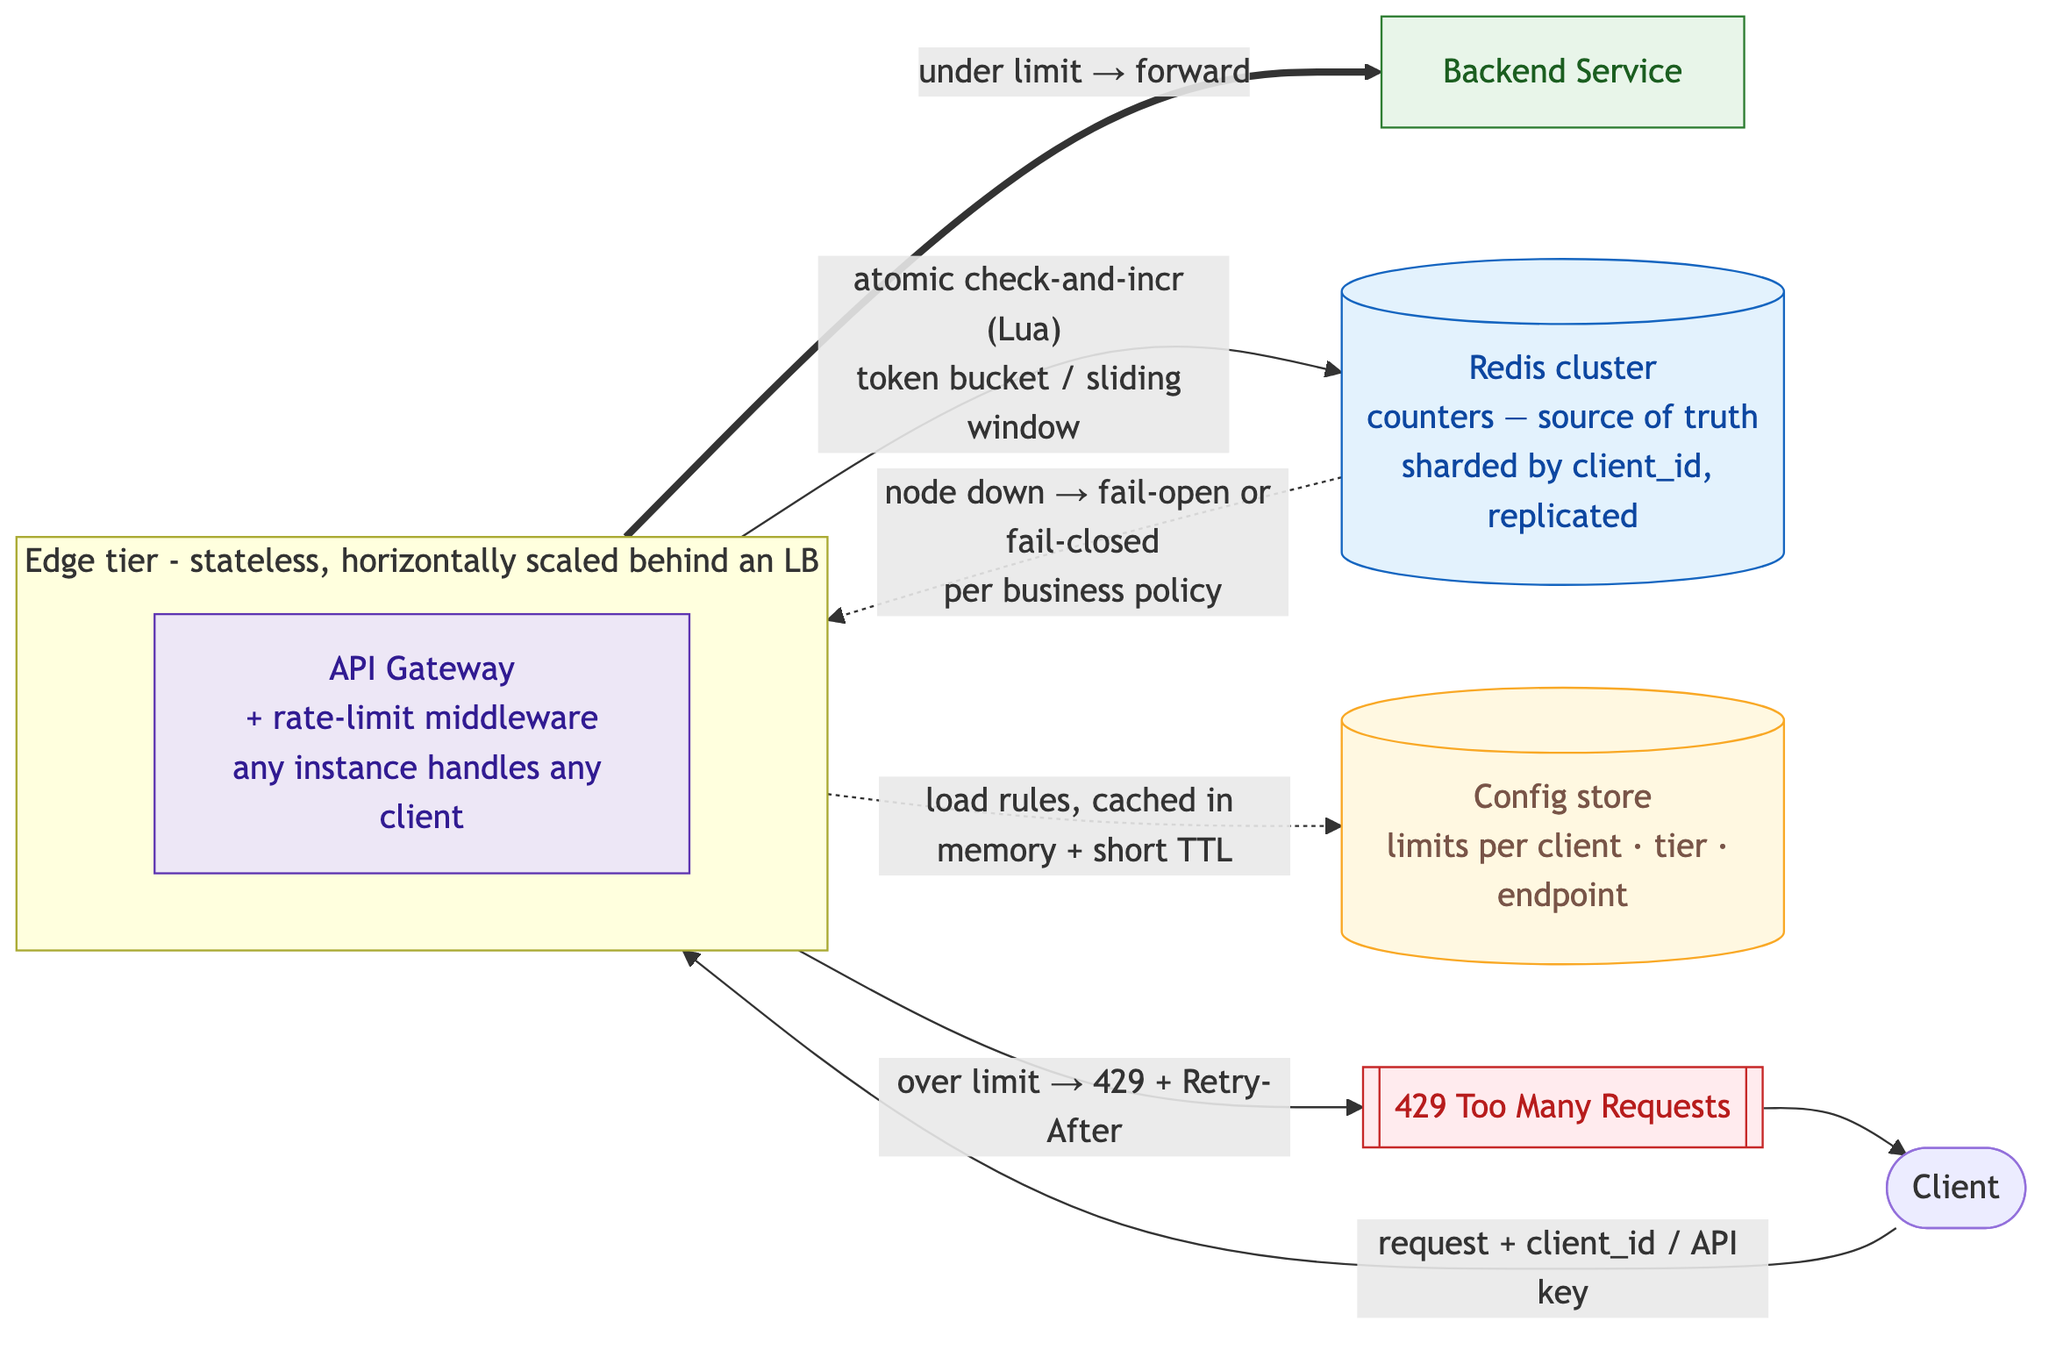
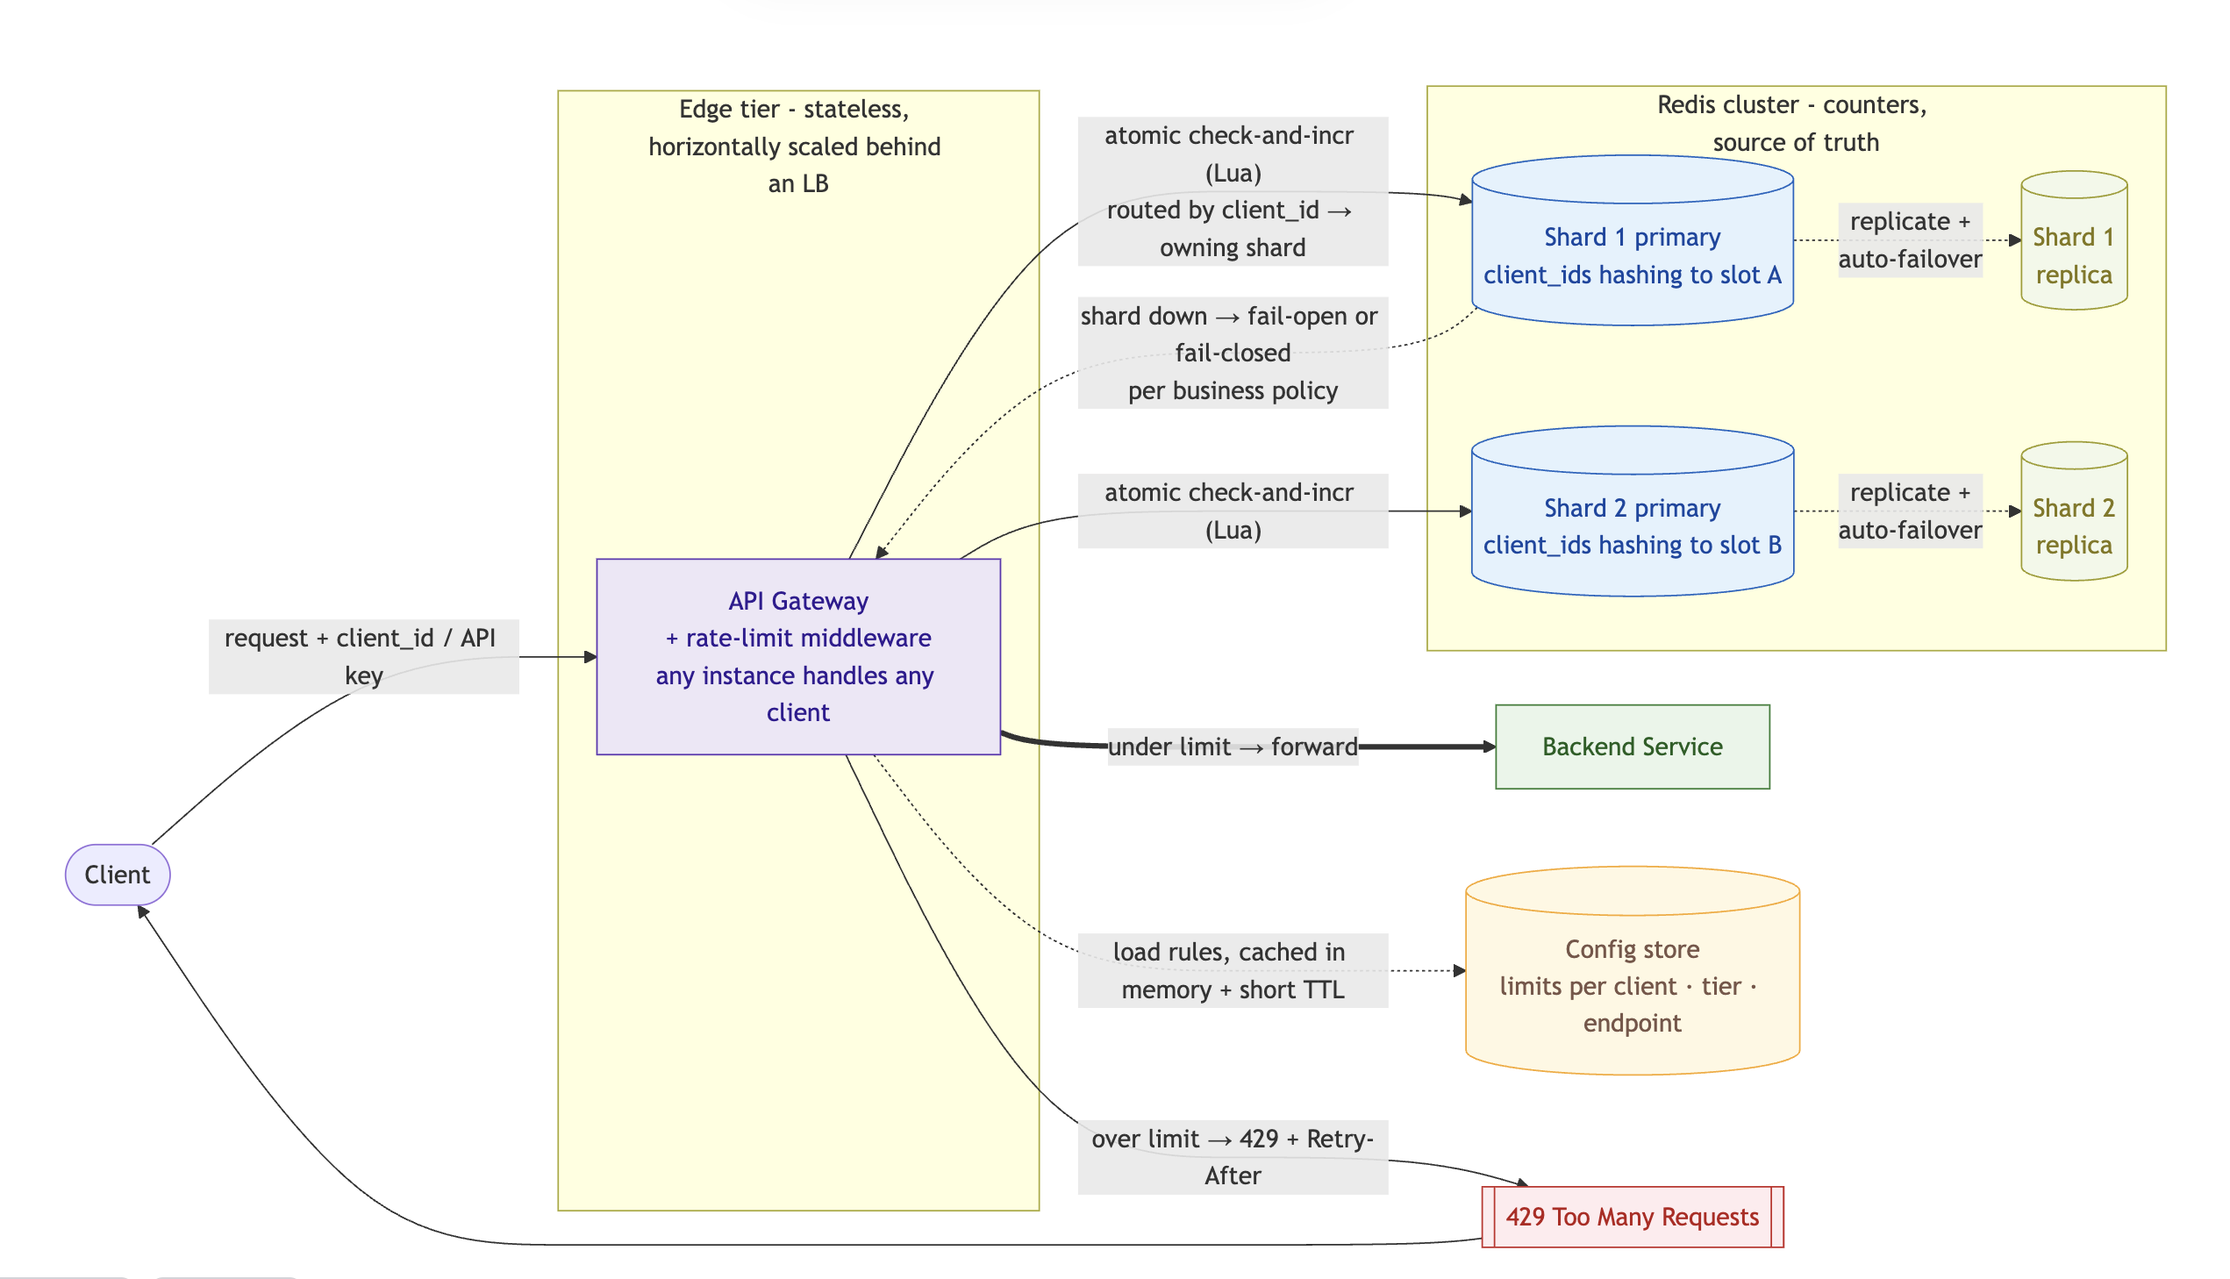
Added token bucket algorithm and how to use it.

diff --git a/practice/07-session/README.md b/practice/07-session/README.md
@@ -14,7 +14,7 @@
 
 > Design a **distributed rate limiting system** that can **protect APIs from abuse** while ensuring **fair usage across different clients** and **maintaining high performance**.
 
-Rate limiting looks like a CRUD-with-a-counter problem and is actually a **distributed-concurrency** problem wearing a small diagram. Every incoming request reads and mutates the *same* per-client counter, at peak QPS, across many stateless instances — so the entire design collapses to two questions: **(1) how do you increment that counter correctly when N instances race on it?** (answer: an *atomic* operation in the shared store, never read-modify-write in app code) and **(2) which counting algorithm do you use?** (fixed window is trivial but bursts 2× at boundaries; sliding-window-counter and token-bucket are what real limiters ship). Everything else — 429s, `Retry-After`, config, HA — is standard. The trap is designing the boxes and hand-waving the counter.
+Rate limiting looks like a CRUD-with-a-counter problem and is actually a **distributed-concurrency** problem wearing a small diagram. Every incoming request reads and mutates the *same* per-client counter, at peak QPS, across many stateless instances — so the entire design collapses to two questions: **(1) how do you increment that counter correctly when N instances race on it?** (answer: an *atomic* operation in the shared store, never read-modify-write in app code) and **(2) which counting algorithm do you use?** (fixed window is trivial but bursts 2× at boundaries; sliding-window-counter and token-bucket are what real limiters ship). Everything else — 429s, `Retry-After`, config, High Availability — is standard. The trap is designing the boxes and hand-waving the counter.
 
 ## Requirements & estimation
 
@@ -83,7 +83,7 @@ The process instincts were the strength this time — the ability to *evolve* a 
 | Clients / DAU | 10M total · 50% active | **5M DAU** | key space is millions, not billions |
 | Average QPS | 5M × 1000/day ÷ 10⁵ s | **~50k QPS** | in-memory store only; a DB can't sit on this path |
 | Peak QPS | 2× average | **~100k QPS** | atomic op must be **O(1)**, single round trip |
-| Counter memory | 5M clients × ~100 B | **~500 MB** | **fits one Redis node** — capacity is a non-issue; replicate for HA, shard for throughput |
+| Counter memory | 5M clients × ~100 B | **~500 MB** | **fits one Redis node** — capacity is a non-issue; replicate for High Availability, shard for throughput |
 | Edge instances | 100k ÷ ~1k QPS each, ×2 failover | **~200** | stateless tier behind an LB; scale horizontally |
 
 > The number that reframes the problem: **~500 MB of counters.** It proves the store is trivially small, there's **no durable-DB requirement on the hot path**, and the real constraints are **atomic-op latency** and **hot-key throughput** — not storage.
@@ -98,7 +98,7 @@ The process instincts were the strength this time — the ability to *evolve* a 
 
 The limiter lives **inside the edge tier** (API gateway / middleware), stateless and horizontally scaled. The only stateful component on the hot path is the **counter store** (Redis), hit with one **atomic** operation per request. A separate **config store** holds the rules, cached in memory.
 
-![Ideal distributed rate limiter as a Mermaid flowchart. A client sends each request carrying a client id or API key into a stateless edge tier of API gateway instances with rate-limit middleware behind a load balancer, where any instance can handle any client. On every request the gateway performs a single atomic check-and-increment against a Redis cluster that holds the per-client counters as the source of truth, sharded by client id and replicated, using a Lua script implementing token bucket or sliding window; it also loads rate-limit rules from a config store keyed by client, tier, and endpoint, cached in memory with a short TTL. When the client is under its limit the gateway forwards the request to the backend service; when over the limit it returns 429 Too Many Requests with a Retry-After header to the client. If a Redis node goes down the gateway falls open or fails closed according to business policy](./diagrams/ideal-design.png)
+![Ideal distributed rate limiter as a Mermaid flowchart. A client sends each request carrying a client id or API key into a stateless edge tier of API gateway instances with rate-limit middleware behind a load balancer, where any instance can handle any client. On every request the gateway performs a single atomic check-and-increment using a Lua script implementing token bucket or sliding window, routed by client id to the shard that owns that client. The counters live in a Redis cluster shown as the source of truth and split into two shards, shard 1 holding client ids that hash to slot A and shard 2 holding client ids that hash to slot B, giving horizontal throughput; each shard primary replicates to a replica with automatic failover for fault tolerance. The gateway also loads rate-limit rules from a config store keyed by client, tier, and endpoint, cached in memory with a short TTL. When the client is under its limit the gateway forwards the request to the backend service; when over the limit it returns 429 Too Many Requests with a Retry-After header to the client. If a shard goes down the gateway fails open or fails closed according to business policy](./diagrams/ideal-design.png)
 
 | Layer | Component | Store |
 |---|---|---|
@@ -111,36 +111,100 @@ The limiter lives **inside the edge tier** (API gateway / middleware), stateless
 
 ### 4. The algorithm — the one component worth real depth
 
-For a rate limiter, the counting algorithm *is* the domain. Know the four and their trade-offs cold:
+For a rate limiter, the counting algorithm *is* the domain. Know the five and their trade-offs cold — and, crucially, be able to **pick one and defend it**:
 
-| Algorithm | How it works | Trade-off |
-|---|---|---|
-| **Fixed window** | one counter per `(client, window)`; `INCR`, reset each window | Simplest, but **~2× burst at boundaries** (400 req across two adjacent 1-s windows) |
-| **Sliding-window log** | store a timestamp per request, count those inside the window | **Exact**, but O(requests) memory — too heavy at scale |
-| **Sliding-window counter** | weight prev window by overlap fraction: `prev × overlap% + curr` | **Approximate but smooth**, ~2 counters/client — the **sweet spot** |
-| **Token bucket** | tokens refill at a fixed rate; each request spends one; bucket caps burst | **Allows controlled bursts**, industry default (Stripe, AWS, Cloudflare) |
-| **Leaky bucket** | requests queue and drain at a fixed rate | **Smooths output**, adds queueing latency |
+| Algorithm | How it works | Trade-off | Verdict for this design |
+|---|---|---|:--|
+| **Fixed window** | one counter per `(client, window)`; `INCR`, reset each window | Simplest, but **~2× burst at boundaries** (400 req across two adjacent 1-s windows) | ❌ the boundary burst is an abuse vector — unacceptable for an abuse-protection tool |
+| **Sliding-window log** | store a timestamp per request, count those inside the window | **Exact**, but O(requests) memory — too heavy at scale | ❌ one entry per request blows the ~500 MB budget at 100k QPS |
+| **Sliding-window counter** | weight prev window by overlap fraction: `prev × overlap% + curr` | **Approximate but smooth**, ~2 counters/client | ✅ strong runner-up — pick it if the business must **forbid bursts** |
+| **Token bucket** | tokens refill at a fixed rate; each request spends one; bucket caps burst | **Allows controlled bursts**, industry default (Stripe, AWS, Cloudflare) | ✅✅ **chosen** — bursts-but-bounded matches "fair usage without blocking legit spikes" |
+| **Leaky bucket** | requests queue and drain at a fixed rate | **Smooths output**, adds queueing latency | ❌ it *queues* to pace a downstream; a limiter should **reject** (429), not buffer |
+
+**Verdict — use token bucket.** After ruling out fixed window (boundary burst), sliding-window log (memory), and leaky bucket (queues instead of rejecting), the choice is token bucket vs. sliding-window counter — both defensible. Token bucket wins as the default because real API traffic is **bursty but legitimate**: a client idle for a while then firing 10 requests has *saved up tokens* and should pass, while one sustaining 1000 req/s is stopped. That is exactly "protect from abuse **while ensuring fair usage**." Switch to **sliding-window counter** only when bursts must be strictly forbidden (e.g. a fragile downstream that can't absorb spikes).
 
 **The concurrency fix that makes any of them correct:** do the read-check-write as **one atomic operation on the node that owns the key** — `INCR` + `EXPIRE` for fixed window, or a **Lua script** for token bucket / sliding window (Redis runs it atomically, single round trip). This dissolves the read-modify-write race *and* the malicious-concurrency exploit — no locks, no transactions, no added latency.
 
-> Naming **token bucket / sliding-window counter** *and* **atomic `INCR`/Lua** is the senior signal the session missed — it's the difference between "a box called Cache" and a limiter that actually enforces the limit under contention.
+Concretely, the **fixed-window** check on each request is just this — the whole race disappears because `INCR` is executed indivisibly *on the Redis server*, so N racing instances can never read the same value and both write back `+1`:
+
+```text
+# Indivisible increment executed on the Redis server — key is rl:{client_id}:{window}
+current_count = INCR "rl:user_123:1700000000"
+
+# First hit in this window creates the key at 1 → attach the TTL so it self-expires
+IF current_count == 1 THEN
+    EXPIRE "rl:user_123:1700000000" 60
+END IF
+
+IF current_count > 100 THEN
+    RETURN 429 Too Many Requests   # + Retry-After
+END IF
+# else: under limit → forward to backend
+```
+
+> **Why the `IF … == 1` and not a plain `EXPIRE` every time:** you only want to stamp the TTL when the window *starts*, so a busy client can't keep pushing the expiry forward and never reset. The one subtlety: `INCR` and `EXPIRE` are two commands, so if the process dies between them the key could live forever without a TTL — in production fold both into a **single Lua script** (or `SET … EX` semantics) so the create-and-expire is itself atomic. Token bucket / sliding-window counter follow the same shape, just with more state per key (`tokens, last_refill`), which is *why* they need a Lua script rather than a bare `INCR`.
+
+#### Token bucket — the chosen algorithm, end to end
+
+The bucket holds up to **`capacity`** tokens; each allowed request **spends one**; tokens **refill at a steady `rate`** (e.g. 100/s). `capacity` caps the *instantaneous* burst, `rate` caps the *sustained* average. The refill is computed **lazily on each request** from elapsed time — there is **no background job** topping up 5M buckets every second (the trap that would be 5M writes/s).
+
+![Token bucket algorithm as a flowchart. A request carrying a client id enters a single atomic Lua script that runs on the Redis shard owning that client id. Inside the script the bucket state — tokens and last refill timestamp — is loaded, and on a client's first sighting the bucket starts full at capacity. The script then lazily refills the bucket with no background job by setting tokens to the minimum of capacity and the current tokens plus elapsed time times the refill rate, and updates last refill to now. It then checks whether tokens is at least one; if yes it spends a token by decrementing, saves the new tokens and last refill and sets a TTL, and the request is forwarded to the backend as under limit; if no the request is rejected over limit with a 429 and a Retry-After header](./diagrams/token-bucket.png)
+
+The entire load → refill → check → spend runs as **one atomic Lua script on the shard owning the key** (the whole yellow box). Concise pseudo-code:
+
+```text
+-- KEYS[1] = rl:{client_id}   ARGV = now, rate (tokens/sec), capacity, requested (=1)
+-- The whole block executes atomically on the node that owns the key
+tokens, last_refill = HMGET rl:user_123 tokens last_refill
+
+IF tokens == nil THEN                       # first sighting → start full
+    tokens = capacity
+    last_refill = now
+END IF
+
+# LAZY REFILL: credit the tokens accrued since the last request, capped at capacity
+tokens = MIN(capacity, tokens + (now - last_refill) * rate)
+last_refill = now
+
+IF tokens >= requested THEN
+    tokens = tokens - requested
+    HMSET  rl:user_123 tokens=tokens last_refill=last_refill
+    EXPIRE rl:user_123 <ttl>                # idle buckets self-evict → memory ∝ active clients
+    RETURN allow                            # → forward to backend
+ELSE
+    HMSET  rl:user_123 tokens=tokens last_refill=last_refill
+    EXPIRE rl:user_123 <ttl>
+    RETURN 429                              # + Retry-After
+END IF
+```
+
+**How token bucket kills both hard problems the session left unsolved:**
+
+| Problem | Why it happens | How token bucket solves it |
+|---|---|---|
+| **Race condition** (concurrent read-modify-write) | N instances read the same `tokens`, all decrement, all write back → lost updates, overcount, exploitable | The whole read → refill → check → decrement → write is **one atomic Lua script**. Redis executes it single-threaded on the key's owning node, so concurrent requests are **serialized** — no lost updates, no locks, one round trip. |
+| **Boundary burst** (fixed window's 2× spike) | Fixed window resets the counter *instantly* at the edge, so 100 req at `0.999s` + 100 at `1.001s` = 200 in ~2 ms | Token bucket **has no window edge** — tokens refill *continuously* at `rate`, so a full new allowance never appears at an instant. `capacity` bounds the max burst, `rate` bounds the sustained average. The burst can't exist because there's no boundary to exploit. |
+
+> Naming **token bucket** *and* **atomic `INCR`/Lua** is the senior signal the session missed — it's the difference between "a box called Cache" and a limiter that actually enforces the limit under contention.
 
 ### 5. Resilience & fair usage
 
 - **Fail-open vs fail-closed** on counter-store outage — a business decision: **fail-open** (allow, prioritize availability) for most APIs; **fail-closed** (block, prioritize protection) for security-critical ones. Say which and why.
 - **Hot key** — one very active client is a single hot shard; mitigate with **local pre-aggregation** (edge counts locally, periodically flushes deltas to Redis — trading a little accuracy for a lot of throughput) or a dedicated shard.
-- **HA** — Redis with **replication + automatic failover** (or a managed service); the counter is ephemeral, so a lost replica costs at most one window of accuracy, never durability.
+- **High Availability** — Redis with **replication + automatic failover** (or a managed service); the counter is ephemeral, so a lost replica costs at most one window of accuracy, never durability.
 - **Fairness** — per-client keys give isolation by default; tiers and per-endpoint limits prevent one expensive endpoint from starving others.
 
 ### 6. Data model
 
-Counters are **ephemeral cache entries**, not durable rows — that's the key modeling insight. Only the **rules** are persisted.
+The bucket state is an **ephemeral cache entry**, not a durable row — that's the key modeling insight. Only the **rules** are persisted.
 
-| Store | Key / Table | Fields | Note |
+| Store | Key / structure | Fields | Note |
 |---|---|---|---|
-| **Redis** (counters) | `rl:{client_id}:{window}` | count + TTL (fixed) — or `tokens, last_refill` (bucket) | **the crux "table" — ephemeral, atomic, TTL'd, never in a durable DB** |
-| Config (rules) | `rate_limit_rules` | client_id / tier / endpoint, limit, window, algorithm | cached in memory + short TTL; hot-reloadable |
+| **Redis** (bucket — the crux) | `rl:{client_id}` (add `:{endpoint}` for per-endpoint limits) as a **Redis Hash** | `tokens` (fractional), `last_refill` (unix ts) + **TTL** | **the crux "table" — the two-field token-bucket state; ephemeral, mutated by one atomic Lua script, TTL'd so idle buckets self-evict; never in a durable DB** |
+| Config (rules) | `rate_limit_rules` | client_id / tier / endpoint → **`capacity`** (max burst), **`refill_rate`** (tokens/s), algorithm | the limit *as data*; cached in memory + short TTL, hot-reloadable |
 | Config (clients) | `clients` | client_id, api_key, tier | identity + tier lookup |
+
+**Why the key has no `:{window}` suffix.** Fixed window needs a discrete bucket per time slice — `rl:{client_id}:{window}` → an integer `count` + TTL — because the count is meaningless once the slice ends. Token bucket is **continuous**: the same two fields (`tokens`, `last_refill`) live under one stable key and are re-derived from elapsed time on every request, so there's no window to encode. `tokens` is **fractional** (a refill of `elapsed × rate` rarely lands on a whole number) — store it as a float, or scale tokens ×1000 and keep integers if you prefer exactness.
 
 ### 7. Design trade-offs
 
